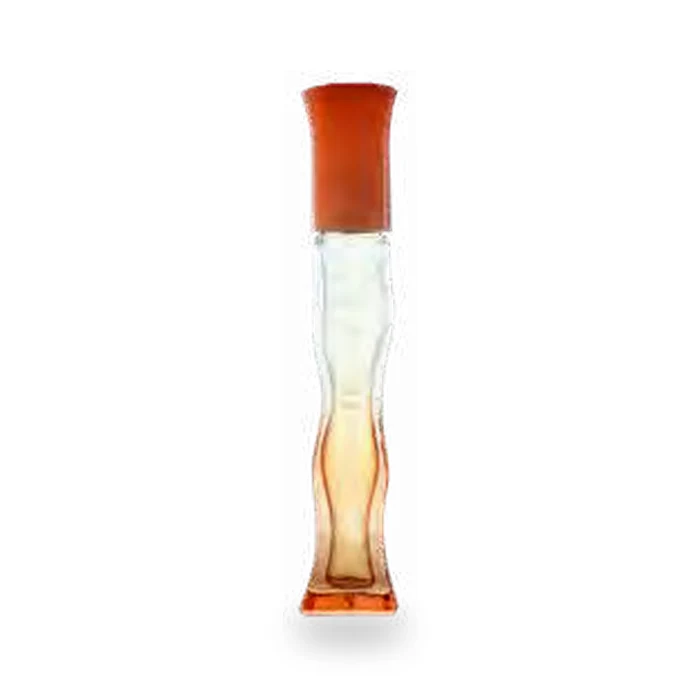
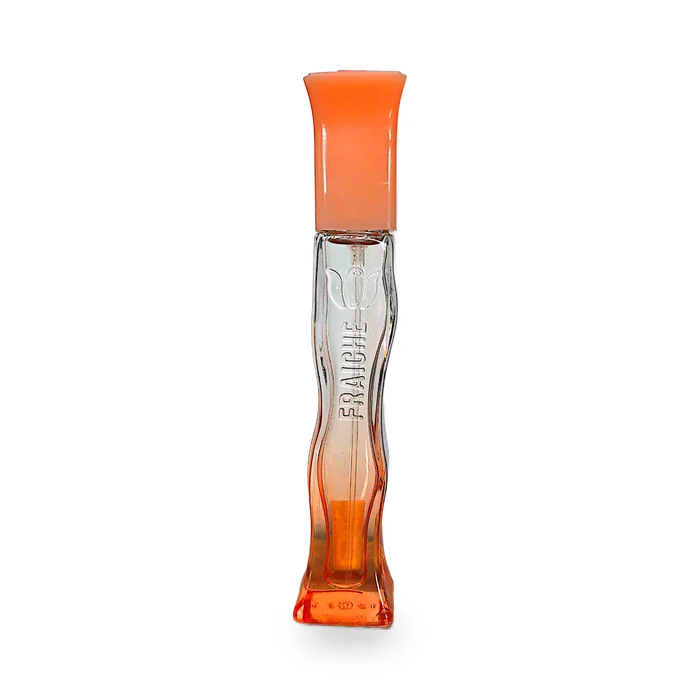
Envases que manejas: fotos de tus PDFs con fondo blanco y sus nombres
- 120 ml: Torso caballero teal, Dama rosa, Torso dama rojo y arcoíris (100 ml).
- 60 ml: Perseo verde oscuro, turquesa y azul; Liliana fucsia, morado, lila y rosa.
- 30 ml: Caballero azul, turquesa y verde; Zapatilla azul; Liliana lila, naranja y rosa.
- Nuevo tamaño 32 ml (dama y caballero, amarillo) y 16 ml blanco.
- La ventana de tamaños muestra solo estos envases, según el género del aroma.

Claude-Session: https://claude.ai/code/session_012qYuFbJU3Mvk7NheT4Znu1

Changed region(s): [[0.42, 0.09, 0.6, 0.9]]

diff --git a/productos.js b/productos.js
@@ -8,10 +8,11 @@
 // foto: pon el nombre del archivo que subas a tienda/fotos/ (ej. foto: 'perfume-60.jpg'); sin foto se ve el dibujo.
 // tags: popular (más pedidos), regalo (para regalo), pura (pura esencia).
 window.PRODUCTOS = [
-  {id:'nuevo-120',cat:'nuevo',nombre:'Perfume 120 ml',detalle:'Frasco nuevo',ilus:'frasco-grande',ml:'120',tags:['regalo'],precios:{linea:375,neeche:475,arabe:435},img:'img/botellas/120.webp',var:[{n:'Caballero · Torso Man negro',img:'img/botellas/120-caballero-torso-man-negro.webp'},{n:'Caballero · Torso Man teal',img:'img/botellas/120-caballero-torso-man-teal.webp'},{n:'Dama · Torso Woman rojo',img:'img/botellas/120-dama-torso-woman-rojo.webp'},{n:'Dama · Torso Woman turquesa',img:'img/botellas/120-dama-torso-woman-turquesa.webp'}]},
-  {id:'nuevo-60',cat:'nuevo',nombre:'Perfume 60 ml',detalle:'Frasco nuevo',ilus:'frasco',ml:'60',tags:['popular'],precios:{linea:212,neeche:262,arabe:242},img:'img/botellas/60.webp',var:[{n:'Caballero · Perseo turquesa',img:'img/botellas/60-caballero-perseo-turquesa.webp'},{n:'Caballero · Perseo índigo',img:'img/botellas/60-caballero-perseo-indigo.webp'},{n:'Caballero · Perseo azul 212',img:'img/botellas/60-caballero-perseo-azul-212.webp'},{n:'Caballero · Perseo verde oscuro',img:'img/botellas/60-caballero-perseo-verde-oscuro.webp'},{n:'Dama · Liliana rosa',img:'img/botellas/60-dama-liliana-rosa.webp'},{n:'Dama · Liliana transcendent pink',img:'img/botellas/60-dama-liliana-transcendent-pink.webp'},{n:'Dama · Liliana lila',img:'img/botellas/60-dama-liliana-lila.webp'},{n:'Dama · Liliana melón',img:'img/botellas/60-dama-liliana-melon.webp'}]},
-  {id:'nuevo-30',cat:'nuevo',nombre:'Perfume 30 ml',detalle:'Frasco nuevo',ilus:'frasco',ml:'30',tags:['popular'],precios:{linea:127,neeche:152,arabe:142},img:'img/botellas/30.webp',var:[{n:'Caballero · For Men cristalino turquesa',img:'img/botellas/30-caballero-for-men-turquesa.webp'},{n:'Caballero · For Men humo azul',img:'img/botellas/30-caballero-for-men-humo-azul.webp'},{n:'Caballero · For Men esmeralda',img:'img/botellas/30-caballero-for-men-esmeralda.webp'},{n:'Dama · Liliana melón',img:'img/botellas/30-dama-liliana-melon.webp'},{n:'Dama · Liliana rosa',img:'img/botellas/30-dama-liliana-rosa.webp'},{n:'Dama · Liliana transcendent pink',img:'img/botellas/30-dama-liliana-transcendent-pink.webp'}]},
-  {id:'nuevo-16',cat:'nuevo',nombre:'Perfume 16 ml',detalle:'Frasco nuevo',ilus:'frasco-chico',ml:'16',tags:['popular'],precios:{linea:73,neeche:85,arabe:80},img:'img/botellas/16-unisex.webp',var:[{n:'Dama y caballero',img:'img/botellas/16-unisex.webp'}]},
+  {id:'nuevo-120',cat:'nuevo',nombre:'Perfume 120 ml',detalle:'Frasco nuevo',ilus:'frasco-grande',ml:'120',tags:['regalo'],precios:{linea:375,neeche:475,arabe:435},img:'img/botellas/120.webp',var:[{n:'Caballero · Torso teal',img:'img/botellas/120-caballero-torso-man-teal.webp'},{n:'Dama · Rosa',img:'img/botellas/120-dama-ice-rosa.webp'},{n:'Dama · Torso rojo (100 ml)',img:'img/botellas/120-dama-torso-woman-rojo.webp'},{n:'Dama · Torso arcoíris (100 ml)',img:'img/botellas/120-dama-torso-woman-arcoiris.webp'}]},
+  {id:'nuevo-60',cat:'nuevo',nombre:'Perfume 60 ml',detalle:'Frasco nuevo',ilus:'frasco',ml:'60',tags:['popular'],precios:{linea:212,neeche:262,arabe:242},img:'img/botellas/60.webp',var:[{n:'Caballero · Perseo verde oscuro',img:'img/botellas/60-caballero-perseo-verde-oscuro.webp'},{n:'Caballero · Perseo turquesa',img:'img/botellas/60-caballero-perseo-turquesa.webp'},{n:'Caballero · Perseo azul',img:'img/botellas/60-caballero-perseo-indigo.webp'},{n:'Dama · Liliana fucsia',img:'img/botellas/60-dama-liliana-transcendent-pink.webp'},{n:'Dama · Liliana morado',img:'img/botellas/60-dama-liliana-lila.webp'},{n:'Dama · Liliana lila',img:'img/botellas/60-dama-liliana-lavanda.webp'},{n:'Dama · Liliana rosa',img:'img/botellas/60-dama-liliana-rosa.webp'}]},
+  {id:'nuevo-30',cat:'nuevo',nombre:'Perfume 30 ml',detalle:'Frasco nuevo',ilus:'frasco',ml:'30',tags:['popular'],precios:{linea:127,neeche:152,arabe:142},img:'img/botellas/30.webp',var:[{n:'Caballero · Azul',img:'img/botellas/30-caballero-for-men-humo-azul.webp'},{n:'Caballero · Turquesa',img:'img/botellas/30-caballero-for-men-turquesa.webp'},{n:'Caballero · Verde',img:'img/botellas/30-caballero-for-men-esmeralda.webp'},{n:'Dama · Zapatilla azul',img:'img/botellas/30-dama-zapatilla-azul.webp'},{n:'Dama · Liliana lila',img:'img/botellas/30-dama-liliana-lavanda.webp'},{n:'Dama · Liliana naranja',img:'img/botellas/30-dama-liliana-melon.webp'},{n:'Dama · Liliana rosa',img:'img/botellas/30-dama-liliana-rosa.webp'}]},
+  {id:'nuevo-32',cat:'nuevo',nombre:'Perfume 32 ml',detalle:'Frasco nuevo',ilus:'frasco-chico',ml:'32',tags:[],precios:{linea:132,neeche:159,arabe:148},img:'img/botellas/32.webp',var:[{n:'Dama y caballero · Amarillo',img:'img/botellas/32-unisex-4you-peace.webp'}]},
+  {id:'nuevo-16',cat:'nuevo',nombre:'Perfume 16 ml',detalle:'Frasco nuevo',ilus:'frasco-chico',ml:'16',tags:['popular'],precios:{linea:73,neeche:85,arabe:80},img:'img/botellas/16-unisex.webp',var:[{n:'Dama y caballero · Blanco',img:'img/botellas/16-unisex.webp'}]},
   {id:'kit-for-you',cat:'nuevo',nombre:'Kit For You',detalle:'Kit de regalo',ilus:'kit',tags:['regalo'],precios:{linea:402,neeche:512,arabe:468}},
   {id:'set-destilados',cat:'nuevo',nombre:'Set destilados',detalle:'Set de regalo',ilus:'set',tags:['regalo'],precios:{linea:507,neeche:634,arabe:583}},
   {id:'capibara-pulpos',cat:'nuevo',nombre:'Capibara / Pulpos',detalle:'Perfume con figura',ilus:'figura',tags:['regalo'],precios:{linea:177,neeche:219}},

diff --git a/tienda.js b/tienda.js
@@ -134,7 +134,7 @@ let cart = store.get('fr_cart', []).map(it => ({ v: -1, ...it }))
 
 /* ---------- carrusel ---------- */
 const SLIDES = [
-  { glow: '#e0435c', glowBtn: '#e0435c', glowInk: '#ff9aa9', t: 'Tu aroma,<br><em>tu tamaño</em>', p: 'Frascos de 16, 30, 60 y 120 ml en esencia de línea, neeche o árabe.', cta: 'Ver perfumes', cat: 'nuevo', img: 'img/botellas/120.webp', ilus: 'frasco', ml: '60' },
+  { glow: '#e0435c', glowBtn: '#e0435c', glowInk: '#ff9aa9', t: 'Tu aroma,<br><em>tu tamaño</em>', p: 'Frascos de 16, 30, 32, 60 y 120 ml en esencia de línea, neeche o árabe.', cta: 'Ver perfumes', cat: 'nuevo', img: 'img/botellas/120.webp', ilus: 'frasco', ml: '60' },
   { glow: '#1f9a62', glowBtn: '#1b8a58', glowInk: '#7fe0b2', t: 'Rellena<br><em>y ahorra</em>', p: () => `Trae tu frasco: 60 ml desde ${money(minPrice(byId['relleno-60']))}.`, cta: 'Ver rellenos', cat: 'relleno', ilus: 'relleno', ml: '60' },
   { glow: '#7a4cd9', glowBtn: '#6a3fc6', glowInk: '#c9b2ff', t: 'Envases<br><em>de colección</em>', p: 'Más de 30 diseños para dama y caballero.', cta: 'Ver envases', cat: 'envases', img: 'img/linea-miss-3.webp', ilus: 'frasco-grande' },
   { glow: '#d9772b', glowBtn: '#c8661c', glowInk: '#ffc58f', t: 'Tu casa<br><em>huele a ti</em>', p: 'Velas, difusores y aromas para el auto.', cta: 'Ver velas', cat: 'velas', img: 'img/velas-aromaticas-2.webp', ilus: 'vela' },
@@ -312,32 +312,23 @@ const aromaTexto = () => aromaSel ? `${aromaSel.n} (${aromaSel.g})` : $('#pAroma
 const pedirAroma = a => a.e === 'ambiental' ? openProduct('difusor-80', { aroma: a }) : abrirTamanos(a);
 
 /* ---------- ventana de tamaños: el aroma elegido en frasco nuevo (16, 30, 60, 120 ml) o relleno ---------- */
-const TAM = ['16', '30', '60', '120'];
+const TAM = ['16', '30', '32', '60', '120'];
 let tA = null, tModo = 'nuevo', tMl = '60', tSel = '', tCant = 1;
 // género de cada frasco: tus botellas por su nombre; los envases del catálogo por su sección (Dúo = para ambos)
 const CABALLERO = ['torsos-futbol', 'lucha-libre', 'linea-aaa-perfumes', 'polo-king-perfume', 'polo-winner-perfume'];
 function generoFrasco(p, v) {
   const n = (v && v.n) || '';
+  if (/^Dama y caballero/i.test(n)) return 'Ambos';
   if (/^Dama/.test(n) || /Woman|Abril|Her Desire|Desire/.test(n)) return 'Dama';
   if (/^Caballero/.test(n) || /Torso Man|Marine|Legend/.test(n)) return 'Caballero';
   if (p.genero === 'Dama' || p.genero === 'Caballero') return p.genero;
   if (p.id === 'nicola-porcella' || CABALLERO.includes(p.id)) return 'Caballero';
   return 'Ambos';
 }
-// estos envases ya son los frascos principales de cada tamaño (no se repiten)
-const YA = ['perseo', 'liliana', 'for-men', 'torso-woman-man'];
-// todos los frascos de un tamaño: primero tus botellas y después los envases del catálogo
+// los frascos de un tamaño: solo los envases que manejas (productos.js)
 function frascosDe(ml) {
-  const out = [];
   const nuevo = byId['nuevo-' + ml];
-  (nuevo && nuevo.var || []).forEach((v, i) => out.push({ id: nuevo.id, v: i, n: v.n, img: v.img, g: generoFrasco(nuevo, v), propio: true }));
-  for (const p of P) {
-    if (p.cat !== 'envases' || YA.includes(p.id)) continue;
-    if (p.var) p.var.forEach((v, i) => { if (String(v.ml || p.envase) === ml && !p.prox)
-      out.push({ id: p.id, v: i, n: `${p.nombre.replace(/ · .*$/, '')} · ${v.n.replace(/\s*\d+ ml$/, '').replace(/ · .*$/, '')}`, img: v.img || p.img, g: generoFrasco(p, v) }); });
-    else if (String(p.envase) === ml && !p.prox) out.push({ id: p.id, v: -1, n: p.nombre, img: p.img, g: generoFrasco(p) });
-  }
-  return out;
+  return (nuevo && nuevo.var || []).map((v, i) => ({ id: nuevo.id, v: i, n: v.n, img: v.img, g: generoFrasco(nuevo, v), propio: true }));
 }
 // los que van con el género del aroma (los "Ambos" siempre aparecen; un aroma unisex ve todos)
 const frascos = (ml, g) => {

diff --git a/estilos.css b/estilos.css
@@ -417,7 +417,7 @@ button:active:not(:disabled),label.opt:active,label.var:active{transform:scale(.
 .tmodo{display:grid;grid-template-columns:1fr 1fr;gap:8px;margin-top:6px}
 .tmodo button{border:1.5px solid var(--line);background:var(--glass);border-radius:var(--r-sm);padding:12px;font-weight:700;color:var(--muted)}
 .tmodo button[aria-pressed=true]{border-color:var(--accent);background:var(--accent-soft);color:var(--ink)}
-.tsizes{display:grid;grid-template-columns:repeat(4,minmax(0,1fr));gap:8px}
+.tsizes{display:grid;grid-template-columns:repeat(5,minmax(0,1fr));gap:6px}
 .tsizes.rell{grid-template-columns:repeat(auto-fill,minmax(84px,1fr))}
 .tsize{display:flex;flex-direction:column;align-items:center;gap:2px;border:1.5px solid var(--line);background:var(--glass);border-radius:var(--r-sm);padding:8px 4px 10px;min-width:0}
 .tsize .timg{position:relative;width:100%;aspect-ratio:3/4;border-radius:8px;background:#fff;overflow:hidden;margin-bottom:4px}

diff --git a/herramientas/botellas/pdf_compuestas.py b/herramientas/botellas/pdf_compuestas.py
@@ -1,0 +1,13 @@
+import sys, numpy as np
+sys.path.insert(0, '/home/user/p-gina-web-fraiche-/herramientas/botellas')
+from uniforma import normaliza, lienzo
+from PIL import Image
+O = sys.argv[1] + '/'; R = '/home/user/p-gina-web-fraiche-/img/botellas/'
+def L(n):
+    c = Image.open(O + n + '-cut.png').convert('RGBA'); a = np.asarray(c.split()[3]); ys, xs = np.nonzero(a > 60)
+    return normaliza(c.crop((xs.min(), ys.min(), xs.max() + 1, ys.max() + 1)), blanco='liliana-rosa' not in n)
+for nom, bs, al in [('120', ['120-caballero-torso-man-teal', '120-dama-ice-rosa', '120-dama-torso-woman-rojo'], [1, 1, .95]),
+                    ('60', ['60-caballero-perseo-turquesa', '60-dama-liliana-transcendent-pink'], [.8, 1]),
+                    ('30', ['30-caballero-for-men-turquesa', '30-dama-liliana-melon'], [.75, 1]),
+                    ('32', ['32-unisex-4you-peace'], [1])]:
+    lienzo([L(b) for b in bs], S=700, alturas=al).save(R + nom + '.webp', 'WEBP', quality=86, method=6); print(nom)

diff --git a/herramientas/botellas/uniforma.py b/herramientas/botellas/uniforma.py
@@ -16,14 +16,14 @@ def recorta(im):
         m = nd.binary_dilation(np.isin(lab, keep), iterations=3)
         cut.putalpha(Image.fromarray(np.minimum(a, m * 255).astype('uint8')))
     return cut.crop(cut.getbbox())
-def normaliza(im):
+def normaliza(im, blanco=True):
     a = np.asarray(im.convert('RGBA')).astype(float); rgb, al = a[..., :3], a[..., 3]
     m = al > 200
     if m.sum() < 50: return im
     px = rgb[m]; lum = px @ [.299, .587, .114]
     # 1) punto blanco: los brillos más fuertes deben ser blancos neutros (quita tonos rosas, azules, amarillos)
     top = px[lum >= np.percentile(lum, 98.5)].mean(0)
-    gain = np.clip(top.mean() / np.maximum(top, 1), .85, 1.18)
+    gain = np.clip(top.mean() / np.maximum(top, 1), .85, 1.18) if blanco else 1   # frascos esmerilados: sin corregir tono
     rgb = rgb * gain
     # 2) niveles: sombra profunda a 6 y brillo a 250, igual en todas
     lum = (rgb[m] @ [.299, .587, .114])

diff --git a/herramientas/botellas/pdf_lienzo.py b/herramientas/botellas/pdf_lienzo.py
@@ -1,0 +1,11 @@
+import sys, os, numpy as np
+sys.path.insert(0, '/home/user/p-gina-web-fraiche-/herramientas/botellas')
+from uniforma import normaliza, lienzo
+from PIL import Image
+d = sys.argv[1]
+for f in sorted(os.listdir(d)):
+    if not f.endswith('-cut.png'): continue
+    cut = Image.open(os.path.join(d, f)).convert('RGBA')
+    a = np.asarray(cut.split()[3]); ys, xs = np.nonzero(a > 60)
+    cut = cut.crop((xs.min(), ys.min(), xs.max() + 1, ys.max() + 1))
+    lienzo([normaliza(cut, blanco='rosa' not in f or 'ice' in f)], S=700).save(os.path.join(d, f[:-8] + '.webp'), 'WEBP', quality=86, method=6)

diff --git a/herramientas/botellas/pdf_recorta.py b/herramientas/botellas/pdf_recorta.py
@@ -1,0 +1,12 @@
+import sys, os
+sys.path.insert(0, '/home/user/p-gina-web-fraiche-/herramientas/botellas')
+from uniforma import recorta, normaliza, lienzo
+from PIL import Image
+src, dst = sys.argv[1], sys.argv[2]
+for f in sorted(os.listdir(src)):
+    im = Image.open(os.path.join(src, f)).convert('RGB')
+    im.thumbnail((1600, 1600))
+    cut = recorta(im)
+    cut.save(os.path.join(dst, f[:-4] + '-cut.png'))
+    lienzo([normaliza(cut)], S=700).save(os.path.join(dst, f[:-4] + '.webp'), 'WEBP', quality=86, method=6)
+    print(f, cut.size, flush=True)

diff --git a/README.md b/README.md
@@ -45,7 +45,7 @@ En `tienda.js`, línea `const WHATSAPP = '525574348740';`: 52 (México) seguido 
 
 En `productos.js` cada producto tiene `precios: {linea: 212, neeche: 262, arabe: 242}`. Cambia el número y guarda.
 
-Los precios salieron de la lista F099 Cuautitlán (precio público) con esta rebaja: −$3 desde $100, −$2 de $30 a $99, −$1 abajo de $30, sin centavos. Fijos: 60 ml nuevo $212 / relleno $144, 30 ml nuevo $127 / relleno $71, 16 ml nuevo $73 / relleno $36 (esencia de línea).
+Los precios salieron de la lista F099 Cuautitlán (precio público) con esta rebaja: −$3 desde $100, −$2 de $30 a $99, −$1 abajo de $30, sin centavos. Fijos: 60 ml nuevo $212 / relleno $144, 30 ml nuevo $127 / relleno $71, 16 ml nuevo $73 / relleno $36 (esencia de línea). El nuevo de 32 ml usa el precio del envase 4YOU del catálogo ($132 línea).
 
 ## Poner fotos
 
